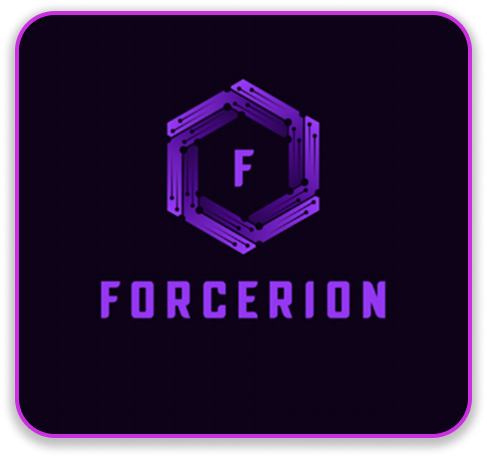
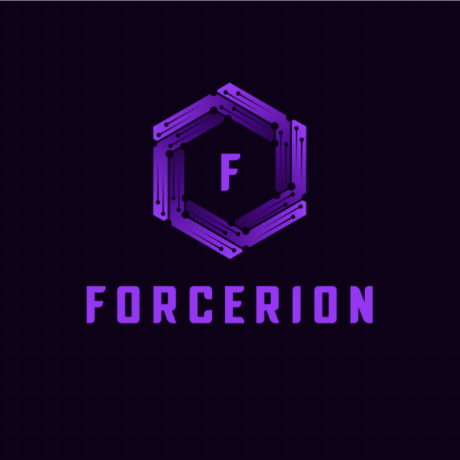
fix images in a propos page

diff --git a/resources/views/a-propos.blade.php b/resources/views/a-propos.blade.php
@@ -5,7 +5,11 @@
 
         <div class="reveal flex flex-col md:flex-row items-center justify-between bg-gray-500/50 rounded-xl px-6 py-6 md:px-12 md:py-8 gap-8">
 
-            <img class="w-96 h-96 object-cover shadow-md" src="/assets/images/peoples/jajoudev.png" alt="JajouDev">
+            <div class="relative">
+                <div class="relative p-1 rounded-[32px] bg-gradient-to-b from-gray-400/50 to-gray-700/50 shadow-[0_0_40px_rgba(0,0,0,0.8)]">
+                    <img src="/assets/images/peoples/jajoudev.jpg" alt="JajouDev" class="w-96 h-96 object-cover rounded-[28px]">
+                </div>
+            </div>
 
             <div class="w-full md:w-1/2 flex flex-col py-4 gap-4">
                 <h2 class="text-4xl text-white font-bold">JajouDev</h2>
@@ -31,7 +35,11 @@
 
         <div class="reveal flex flex-col md:flex-row-reverse items-center justify-between bg-[#2600FF]/50 rounded-xl px-6 py-6 md:px-12 md:py-8 gap-8">
 
-            <img class="w-96 h-96 object-cover shadow-md" src="/assets/images/peoples/forcerion.png" alt="JajouDev">
+            <div class="relative">
+                <div class="relative p-1 rounded-[32px] bg-gradient-to-b from-purple-400/50 to-purple-700/50 shadow-[0_0_40px_rgba(0,0,0,0.8)]">
+                    <img src="/assets/images/peoples/forcerion.png" alt="Forcerion" class="w-96 h-96 object-cover rounded-[28px]">
+                </div>
+            </div>
 
             <div class="w-full md:w-1/2 flex flex-col py-4 gap-4">
                 <h2 class="text-4xl text-white font-bold">Forcerion</h2>
@@ -57,7 +65,11 @@
 
         <div class="reveal flex flex-col md:flex-row items-center justify-between bg-[#6e7346]/50 rounded-xl px-6 py-6 md:px-12 md:py-8 gap-8">
 
-            <img class="w-96 h-96 object-cover shadow-md" src="/assets/images/peoples/fonceurok.png" alt="JajouDev">
+            <div class="relative">
+                <div class="relative p-1 rounded-[32px] bg-gradient-to-b from-lime-50/50 to-lime-400/50 shadow-[0_0_40px_rgba(0,0,0,0.8)]">
+                    <img src="/assets/images/peoples/fonceurok.png" alt="FonceurOk" class="w-96 h-96 object-cover rounded-[28px]">
+                </div>
+            </div>
 
             <div class="w-full md:w-1/2 flex flex-col py-4 gap-4">
                 <h2 class="text-4xl text-white font-bold">FonceurOk</h2>
@@ -80,7 +92,11 @@
 
         <div class="reveal flex flex-col md:flex-row-reverse items-center justify-between bg-blue-950/50 rounded-xl px-6 py-6 md:px-12 md:py-8 gap-8">
 
-            <img class="w-96 h-96 object-cover shadow-md" src="/assets/images/peoples/necromania.png" alt="JajouDev">
+            <div class="relative">
+                <div class="relative p-1 rounded-[32px] bg-gradient-to-b from-blue-400/50 to-blue-700/50 shadow-[0_0_40px_rgba(0,0,0,0.8)]">
+                    <img src="/assets/images/peoples/necromania.jpg" alt="NECROMANIA" class="w-96 h-96 object-cover rounded-[28px]">
+                </div>
+            </div>
 
             <div class="w-full md:w-1/2 flex flex-col py-4 gap-4">
                 <h2 class="text-4xl text-white font-bold">NECRO MANIA</h2>